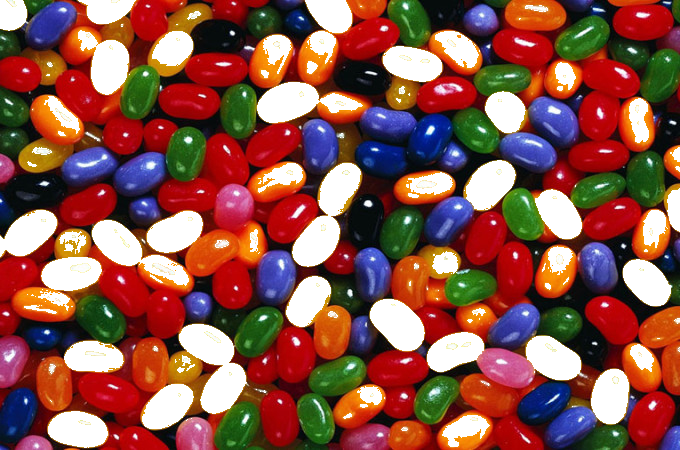
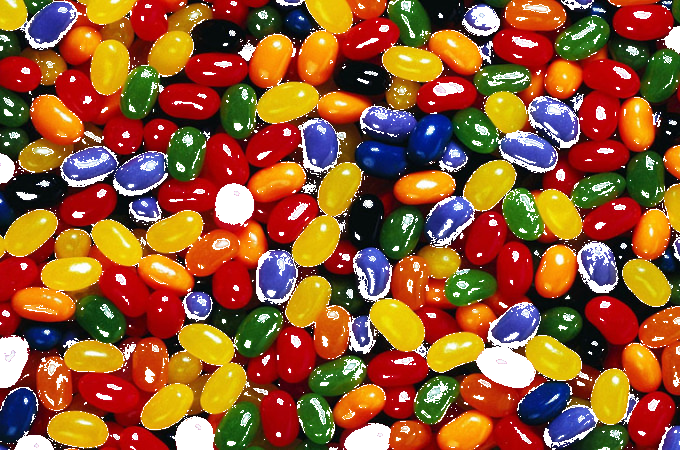
igigriodfjgdfjgkldjfgklfjdlg

diff --git a/5.1/beanchange.py b/5.1/beanchange.py
@@ -1,16 +1,24 @@
 from PIL import Image
 
 def colour(r, g, b):
-    #yellow
     if r > 150 and g > 150 and b < 150:
         return "yellow"
-    else:
-        return "other"
-    
+    elif r > 107 and g < 47 and b < 35:
+        return "red"
+    elif r < 95 and g < 148 and b > 95:
+        return 'blue'
+    elif r < 66 and g > 21 and b < 42:
+        return 'green'
+    elif r > 24 and g < 174 and b > 21:
+        return 'purple'
 file = Image.open("5.1/jelly_beans.jpg")
 jb_image = file.load()
 
 yellow_pixels = []
+redp = []
+bluep = []
+greenp = []
+purplep = []
 
 width = file.width
 height = file.height
@@ -25,11 +33,33 @@ for x in range(width):
             yellow_pixels.append(jb_image[x,y])
             file.putpixel((x, y), (255, 255, 255))
 
+        if colour(pixel_r, pixel_g, pixel_b) == "red":
+            redp.append(jb_image[x,y])
+
+        elif colour(pixel_r, pixel_g, pixel_b) == "blue":
+            bluep.append(jb_image[x,y])
+
+        elif colour(pixel_r, pixel_g, pixel_b) == "purple":
+            purplep.append(jb_image[x,y])
+
+        elif colour(pixel_r, pixel_g, pixel_b) == "green":
+            greenp.append(jb_image[x,y])
+
 num_yellow = len(yellow_pixels)
+num_red = len(redp)
+num_blue = len(bluep)
+num_green = len(greenp)
+num_purple = len(purplep)
 
 total_pixels = width*height
 yellow_ratio = num_yellow / total_pixels
+red_percent = (num_red / total_pixels)  * 100
+blue_percent = (num_blue / total_pixels)  * 100
+green_percent = (num_green / total_pixels)  * 100
+purple_percent = (num_purple / total_pixels)  * 100
+
+
 yellow_percent = yellow_ratio * 100
-report = "There are {:.2f}% yellow jellybeans.".format(yellow_percent)
+report = "There are {:.2f}% yellow jellybeans.".format(yellow_percent) + "There are {:.2f}% .red jellybeans.".format(red_percent) + "There are {:.2f}% .green jellybeans.".format(green_percent) + "There are {:.2f}% .blue jellybeans.".format(blue_percent) + "There are {:.2f}% purple jellybeans.".format(purple_percent)
 print(report)
 file.save('output.png', 'png')
